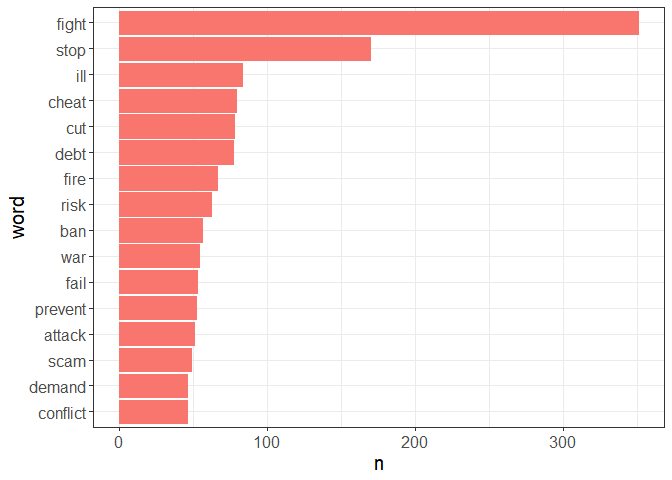
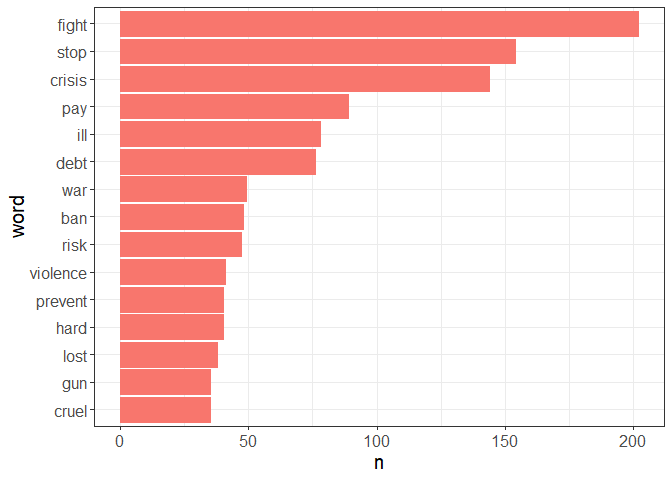
update

Changed region(s): [[0.0312, 0.0312, 0.9688, 0.9375], [0.0, 0.4062, 0.0625, 0.5]]

diff --git a/README.md b/README.md
@@ -61,25 +61,22 @@ warren_tidy <- warren_clean %>%
   # remove numbers
   filter(!str_detect(word, "^[0-9]*$")) %>%
   # remove stop words
-  anti_join(stop_words) %>%
-  # stem the words
-  mutate(word = SnowballC::wordStem(word))
+  anti_join(stop_words)
 ```
 
 ## 3 - Perform sentiment analysis with AFINN lexicon
 
 The [AFINN
-lexicon](\(http://corpustext.com/reference/sentiment_afinn.html\))
-measures negative / positive valence on a -5 to +5
-scale
+lexicon]((http://corpustext.com/reference/sentiment_afinn.html))
+measures negative / positive valence on a -5 to +5 scale
 
 ``` r
 # note there are other lexicons you can call see ?get_sentiments for details
 w_sent <- warren_tidy %>% left_join(get_sentiments('afinn')) 
 
 # plot most frequent negative or positive words
-# score < 1 = negative sentiment, score < 1 = negative sentiment
-w_sent %>% filter(score < 1) %>% count(word) %>% 
+# value < 0 = negative sentiment, value > 0 = positive sentiment
+w_sent %>% filter(value < 0) %>% count(word) %>% 
   top_n(15) %>% mutate(word = reorder(word, n)) %>% 
   ggplot(aes(word, n, color = "red", fill = "red")) +
   geom_col(show.legend = FALSE) +
@@ -96,7 +93,7 @@ ill”). We can get rid of this misclassification in the plot by adding to
 the filter statement in the plot code:
 
 ``` r
-w_sent %>% filter(score < 1 & word != "ill") %>% count(word) %>% 
+w_sent %>% filter(value < 0 & word != "ill") %>% count(word) %>% 
   top_n(15) %>% mutate(word = reorder(word, n)) %>% 
   ggplot(aes(word, n, color = "red", fill = "red")) +
   geom_col(show.legend = FALSE) +
@@ -136,9 +133,7 @@ bernie_tidy <- bernie_clean %>%
   # remove numbers
   filter(!str_detect(word, "^[0-9]*$")) %>%
   # remove stop words
-  anti_join(stop_words) %>%
-  # stem the words
-  mutate(word = SnowballC::wordStem(word))
+  anti_join(stop_words)
 ```
 
 ## 6 - Compare Warren and Bernie most frequent negative words
@@ -148,15 +143,15 @@ bernie_tidy <- bernie_clean %>%
 b_sent <- bernie_tidy %>% left_join(get_sentiments('afinn')) 
 
 # pull Warren and Bernie's top 10 most used neg emo words
-w_freqemo <- w_sent %>% filter(score < 1 & word != "ill") %>% count(word) %>% 
+w_freqemo <- w_sent %>% filter(value < 0 & word != "ill") %>% count(word) %>% 
   top_n(10) %>% mutate(word = reorder(word, n)) 
 w_freqemo <- w_freqemo %>% mutate(elite = "Warren")
 
-b_freqemo <- b_sent %>% filter(score < 1) %>% count(word) %>% 
+b_freqemo <- b_sent %>% filter(value < 0) %>% count(word) %>% 
   top_n(10) %>% mutate(word = reorder(word, n)) 
 b_freqemo <- b_freqemo %>% mutate(elite = "Sanders")
 
-#combine data sets for plot
+# combine data sets for plot
 w_b <- rbind(w_freqemo, b_freqemo)
 
 # often both elites will have similar words in their top 10, and this confuses ggplot so it plots one elite out of frequency order
@@ -165,14 +160,14 @@ w_b <- w_b %>% mutate(word = factor(word)) %>%
   mutate(word = ifelse(elite == 'Warren', str_c(' ',word), str_c('',word))) %>% 
   mutate(word = fct_reorder(word, n))
 
-#make a nice plot
+# make a nice plot
 w_b %>% ggplot(aes(word, n, fill = elite)) +
   scale_fill_manual(values = c("dodgerblue2", "firebrick2")) +
   geom_col(show.legend = FALSE) +
   facet_wrap(~ elite, scales = "free") +
   coord_flip() +
   theme_bw()+
-  labs(y = "Negative Word", x = "Frequency") +
+  labs(y = "Frequency", x = "Negative Word") +
   theme(axis.title = element_text(face="bold")) 
 ```
 
@@ -211,28 +206,26 @@ wb_tidy <- wb_time %>%
   # remove numbers
   filter(!str_detect(word, "^[0-9]*$")) %>%
   # remove stop words
-  anti_join(stop_words) %>%
-  # stem the words
-  mutate(word = SnowballC::wordStem(word))
+  anti_join(stop_words)
 ```
 
 Analyze sentiment
 
 ``` r
-#perform sentiment analysis (valence) using AFINN dictionary
+# perform sentiment analysis (valence) using AFINN dictionary
 wb_sent <- wb_tidy %>% left_join(get_sentiments('afinn')) 
 
-#collapse back to tweet-level based on idx
+# collapse back to tweet-level based on idx
 wb_time_sent <- wb_sent %>% group_by(idx) %>% summarize(screen_name = first(screen_name),
                                                         day = first(day),
-                                                        sentiment = mean(score, na.rm = TRUE))
+                                                        sentiment = mean(value, na.rm = TRUE))
 
-#get day-level sentiment in tweets
+# get day-level sentiment in tweets
 wb_time_sent_day <- wb_time_sent %>% group_by(day) %>% summarize(screen_name = first(screen_name),
                                                         sentiment = mean(sentiment, na.rm = TRUE))
 
 
-#make sure month is a date/time object again
+# make sure month is a date/time object again
 wb_time_sent_day <- wb_time_sent_day %>% mutate(day = ymd(day))
 ```
 
@@ -276,8 +269,8 @@ wb_time_sent_trim %>%
 
 ![](twitter_sentiment_lexicon_files/figure-gfm/senttime5-1.png)<!-- -->
 
-We see both Warren and Sanders have downward trend in mean daily
-sentiment (their tweets are getting more negative over time). However,
-Sanders’ tweets are getting slightly more negative than Warren according
-to this analysis (if you plot on your machine the difference will be
-more noticable when the graph is larger). \#FeeltheBern?
+We see Sanders has downward trend in mean daily sentiment (tweets are
+getting more negative over time). However, Sanders’ tweets are getting
+more negative than Warren lately (if you plot on your machine the
+difference will be more noticable when the graph is larger).
+\#FeeltheBern?
